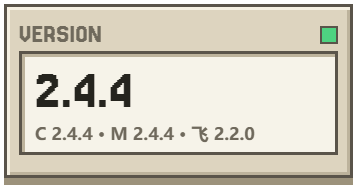
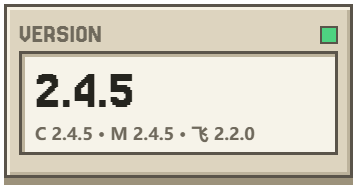
docs(readme): 头部版本卡片与最近一版说明更新到 2.4.5

Changed region(s): [[0.3081, 0.3704, 0.3697, 0.582], [0.2157, 0.6614, 0.2773, 0.7407], [0.4622, 0.6614, 0.493, 0.7407]]

diff --git a/README.md b/README.md
@@ -12,18 +12,18 @@
 </picture>
 
 <p>
-  <a href="https://github.com/Fish-under-sea/FISH-DOCK-Plugins/releases/tag/v2.4.4"><picture><source media="(prefers-color-scheme: dark)" srcset="assets/readme/config-stat-version-zh-dark.png"><img src="assets/readme/config-stat-version-zh-light.png" alt="VERSION：2.4.4（Magpie）；Clash 2.4.4" width="23%"></picture></a>
+  <a href="https://github.com/Fish-under-sea/FISH-DOCK-Plugins/releases/tag/v2.4.5"><picture><source media="(prefers-color-scheme: dark)" srcset="assets/readme/config-stat-version-zh-dark.png"><img src="assets/readme/config-stat-version-zh-light.png" alt="VERSION：2.4.5（Magpie）；Clash 2.4.5" width="23%"></picture></a>
   <a href="#plugins"><picture><source media="(prefers-color-scheme: dark)" srcset="assets/readme/config-stat-desktop-zh-dark.png"><img src="assets/readme/config-stat-desktop-zh-light.png" alt="PLUGINS：三个独立插件" width="23%"></picture></a>
   <a href="#packages"><picture><source media="(prefers-color-scheme: dark)" srcset="assets/readme/config-stat-mail-zh-dark.png"><img src="assets/readme/config-stat-mail-zh-light.png" alt="PACKAGES：三个 npm 单包" width="23%"></picture></a>
   <a href="https://github.com/Fish-under-sea/FISH-Dock"><picture><source media="(prefers-color-scheme: dark)" srcset="assets/readme/config-stat-channels-zh-dark.png"><img src="assets/readme/config-stat-channels-zh-light.png" alt="HOST API：1，兼容 FISH Dock 2.0.0+" width="23%"></picture></a>
 </p>
 
-<p><img src="https://img.shields.io/badge/Node.js-24.14%2B-8fd6a0?style=flat-square&amp;logo=nodedotjs&amp;logoColor=white&amp;labelColor=5a544a" alt="Node.js 24.14+"> <img src="https://img.shields.io/badge/Adapter%20License-MIT-8fd6a0?style=flat-square&amp;labelColor=5a544a" alt="插件适配代码许可 MIT"> <img src="https://img.shields.io/badge/mihomo-GPL--3.0-f08a5d?style=flat-square&amp;labelColor=5a544a" alt="随包 mihomo 许可 GPL-3.0"> <img src="https://img.shields.io/badge/Plugins-2.4.0-8fd6a0?style=flat-square&amp;labelColor=5a544a" alt="Clash 2.4.4 与 Magpie 2.4.4"></p>
+<p><img src="https://img.shields.io/badge/Node.js-24.14%2B-8fd6a0?style=flat-square&amp;logo=nodedotjs&amp;logoColor=white&amp;labelColor=5a544a" alt="Node.js 24.14+"> <img src="https://img.shields.io/badge/Adapter%20License-MIT-8fd6a0?style=flat-square&amp;labelColor=5a544a" alt="插件适配代码许可 MIT"> <img src="https://img.shields.io/badge/mihomo-GPL--3.0-f08a5d?style=flat-square&amp;labelColor=5a544a" alt="随包 mihomo 许可 GPL-3.0"> <img src="https://img.shields.io/badge/Plugins-2.4.5-8fd6a0?style=flat-square&amp;labelColor=5a544a" alt="Clash 2.4.5 与 Magpie 2.4.5"></p>
 <p><strong>FISH Plugins &amp; Configuration · 插件配置仓</strong><br>官方插件、配置说明与发行入口；按需安装，独立运行。</p>
 
 <p>
   <a href="#get-started"><picture><source media="(prefers-color-scheme: dark)" srcset="assets/readme/key-download-zh-dark.png"><img src="assets/readme/key-download-zh-light.png" alt="下载 / Releases" height="40"></picture></a>
-  <a href="https://github.com/Fish-under-sea/FISH-DOCK-Plugins/releases/tag/v2.4.4"><picture><source media="(prefers-color-scheme: dark)" srcset="assets/readme/key-release-zh-dark.png"><img src="assets/readme/key-release-zh-light.png" alt="更新记录" height="40"></picture></a>
+  <a href="https://github.com/Fish-under-sea/FISH-DOCK-Plugins/releases/tag/v2.4.5"><picture><source media="(prefers-color-scheme: dark)" srcset="assets/readme/key-release-zh-dark.png"><img src="assets/readme/key-release-zh-light.png" alt="更新记录" height="40"></picture></a>
   <a href="https://github.com/Fish-under-sea/FISH-DOCK-Plugins/issues"><picture><source media="(prefers-color-scheme: dark)" srcset="assets/readme/key-issues-zh-dark.png"><img src="assets/readme/key-issues-zh-light.png" alt="反馈 / Issues" height="40"></picture></a>
 </p>
 
@@ -35,10 +35,11 @@
 
 每个插件独立保存配置与凭据，按需启动，不共享业务密钥。插件仓只发布插件资源，桌面安装包请前往 [FISH-Dock](https://github.com/Fish-under-sea/FISH-Dock)。
 
-当前发行（以 `catalog/stable.json` 为唯一权威）：Magpie **2.4.4**（原生标识 `v0.1.4262+fish.41`，要求 FISH Dock ≥ 2.3.4）、Clash **2.4.4**、飞书 **2.2.0**。本版详见 [2.4.4 发行说明](docs/releases/2.4.4.md)（外观页签图标、底图遮挡真正生效、玻璃覆盖生成、宿主页桥新上限）；外观分页与记忆 Agent 见 [2.4.0 发行说明](docs/releases/2.4.0.md)。
+当前发行（以 `catalog/stable.json` 为唯一权威）：Magpie **2.4.5**（原生标识 `v0.1.4262+fish.45`，要求 FISH Dock ≥ 2.3.4）、Clash **2.4.5**、飞书 **2.2.0**。本版详见 [2.4.5 发行说明](docs/releases/2.4.5.md)（Obsidian 记忆 Agent、液态玻璃表面补全与颜色解耦、Clash TUN 服务与切换及液态玻璃修复）；外观分页与初版记忆 Agent 见 [2.4.0 发行说明](docs/releases/2.4.0.md)。
 
-**最近版本**（当前 2.4.4；每一版的完整说明见 [docs/releases](docs/releases)）
+**最近版本**（当前 2.4.5；每一版的完整说明见 [docs/releases](docs/releases)）
 
+- **2.4.5** · Magpie：Obsidian 记忆功能纳入 `.obsidian` 统一工作区正式 Agent（`fish.45`）；用量四页签等 159 条液态玻璃表面规则与独立玻璃颜色（`fishGlassColor`）解耦强调色，修复侧边栏真全透与零滤镜（`fish.44`）。Clash：TUN 服务恢复（`job.ini` 监听/BOM 剥离/`hostGone`）与切换回滚修复，对齐 360° Fresnel 液态玻璃、滚动条/过滤框与下拉交互。→ [说明](docs/releases/2.4.5.md)
 - **2.4.4** · Magpie：外观页签图标补齐；底图遮挡改为 `--wall-veil` 并在滑块松手后重画，从此真正生效；回滚改坏的侧栏内滚；玻璃覆盖改由 `tools/glass-surfaces.mjs` 从 `app.css` 生成。Clash：适配宿主页桥 2 MiB 上限，壁纸预算 1.5 MiB，超限不再假死。→ [说明](docs/releases/2.4.4.md)
 - **2.4.3** · Clash 外观页一卡一行、浮空白色滚动条、壁纸自动压缩；Magpie 侧边栏与外观页秩序。→ [说明](docs/releases/2.4.3.md)
 - **2.4.2** · 玻璃可读性：壁纸遮罩随内容区不透明度；Clash 外观页细节修正。→ [说明](docs/releases/2.4.2.md)
@@ -49,7 +50,7 @@
 
 > ⚠ **2.0.0 是 breaking 版本**：插件清单新增 `behaviors` 字段，FISH Dock 1.2.3 及更早的宿主用 `deny_unknown_fields` 解析，会以「plugin.json 格式无效或含未知字段」直接拒装。**旧宿主请先把 Dock 升到 2.0.0**，再安装这些插件。
 
-> ⚠ npm 上 `@fish-under-sea/fish-dock-plugin-clash@1.1.0` 为误发版本（基于旧基线，缺少 1.0.4 的多订阅修复），请勿使用；当前 Magpie 单包是 `2.4.4`、Clash 是 `2.4.4`、飞书是 `2.2.0`，OFM 停在 `2.0.1`（已退役）。
+> ⚠ npm 上 `@fish-under-sea/fish-dock-plugin-clash@1.1.0` 为误发版本（基于旧基线，缺少 1.0.4 的多订阅修复），请勿使用；当前 Magpie 单包是 `2.4.5`、Clash 是 `2.4.5`、飞书是 `2.2.0`，OFM 停在 `2.0.1`（已退役）。
 
 <h2 id="plugins"><picture><source media="(prefers-color-scheme: dark)" srcset="assets/readme/section-features-dark.png"><img src="assets/readme/section-features-light.png" alt="PLUGINS · 三个插件" width="100%"></picture></h2>
 
@@ -77,7 +78,7 @@
 
 <h2 id="get-started"><picture><source media="(prefers-color-scheme: dark)" srcset="assets/readme/section-install-dark.png"><img src="assets/readme/section-install-light.png" alt="INSTALL · 安装使用" width="100%"></picture></h2>
 
-安装前先核对宿主版本：Magpie 是 2.4.4（要求 FISH Dock ≥ 2.3.4）、Clash 是 2.4.4、飞书是 2.2.0，**FISH Dock 需要 2.0.0 及以上**；1.2.3 及更早的宿主会因清单里的 `behaviors` 字段拒装。
+安装前先核对宿主版本：Magpie 是 2.4.5（要求 FISH Dock ≥ 2.3.4）、Clash 是 2.4.5、飞书是 2.2.0，**FISH Dock 需要 2.0.0 及以上**；1.2.3 及更早的宿主会因清单里的 `behaviors` 字段拒装。
 
 **方式一：Dock 内插件市场（推荐）**
 
@@ -96,22 +97,22 @@
 | 插件 | GitHub 包 | npm 单包 |
 | --- | --- | --- |
 | 飞书 2.2.0 | [`feishu.fish-plugin`](https://github.com/Fish-under-sea/FISH-DOCK-Plugins/releases/download/v2.2.0/feishu.fish-plugin) | [`@fish-under-sea/fish-dock-plugin-feishu`](https://www.npmjs.com/package/@fish-under-sea/fish-dock-plugin-feishu/v/2.2.0) |
-| Clash 2.4.4 | [`clash.fish-plugin`](https://github.com/Fish-under-sea/FISH-DOCK-Plugins/releases/download/v2.4.4/clash.fish-plugin) | [`@fish-under-sea/fish-dock-plugin-clash`](https://www.npmjs.com/package/@fish-under-sea/fish-dock-plugin-clash/v/2.4.4) |
-| Magpie 2.4.4 | [`magpie.fish-plugin`](https://github.com/Fish-under-sea/FISH-DOCK-Plugins/releases/download/v2.4.4/magpie.fish-plugin) | [`@fish-under-sea/fish-dock-plugin-magpie`](https://www.npmjs.com/package/@fish-under-sea/fish-dock-plugin-magpie/v/2.4.4) |
+| Clash 2.4.5 | [`clash.fish-plugin`](https://github.com/Fish-under-sea/FISH-DOCK-Plugins/releases/download/v2.4.5/clash.fish-plugin) | [`@fish-under-sea/fish-dock-plugin-clash`](https://www.npmjs.com/package/@fish-under-sea/fish-dock-plugin-clash/v/2.4.5) |
+| Magpie 2.4.5 | [`magpie.fish-plugin`](https://github.com/Fish-under-sea/FISH-DOCK-Plugins/releases/download/v2.4.5/magpie.fish-plugin) | [`@fish-under-sea/fish-dock-plugin-magpie`](https://www.npmjs.com/package/@fish-under-sea/fish-dock-plugin-magpie/v/2.4.5) |
 
 <h2 id="packages"><picture><source media="(prefers-color-scheme: dark)" srcset="assets/readme/section-packages-dark.png"><img src="assets/readme/section-packages-light.png" alt="PACKAGES · npm 单包" width="100%"></picture></h2>
 
-每个 npm 包只包含一个对应的插件归档和下载 CLI（bin 名 `fish-dock-plugin-<插件>`），不运行安装后脚本，不修改 Dock 或系统设置。当前 npm 上 **Magpie 是 2.4.4、Clash 是 2.4.4、飞书是 2.2.0**（OFM 单包停在 2.0.1，已退役只供手动下载），要求 **Node.js ≥ 24** 与 **FISH Dock ≥ 2.0.0**。
+每个 npm 包只包含一个对应的插件归档和下载 CLI（bin 名 `fish-dock-plugin-<插件>`），不运行安装后脚本，不修改 Dock 或系统设置。当前 npm 上 **Magpie 是 2.4.5、Clash 是 2.4.5、飞书是 2.2.0**（OFM 单包停在 2.0.1，已退役只供手动下载），要求 **Node.js ≥ 24** 与 **FISH Dock ≥ 2.0.0**。
 
 | npm 单包（完整包名） | 版本 | bin | `npm pack` 体积 |
 | --- | --- | --- | --- |
 | `@fish-under-sea/fish-dock-plugin-feishu` | 2.2.0 | `fish-dock-plugin-feishu` | 38.6 kB（6 个文件） |
-| `@fish-under-sea/fish-dock-plugin-clash` | 2.4.4 | `fish-dock-plugin-clash` | 16.1 MB（7 个文件，含 mihomo 许可） |
-| `@fish-under-sea/fish-dock-plugin-magpie` | 2.4.4 | `fish-dock-plugin-magpie` | 46.6 MB（7 个文件，含 Magpie 许可） |
+| `@fish-under-sea/fish-dock-plugin-clash` | 2.4.5 | `fish-dock-plugin-clash` | 16.9 MB（7 个文件，含 mihomo 许可） |
+| `@fish-under-sea/fish-dock-plugin-magpie` | 2.4.5 | `fish-dock-plugin-magpie` | 49.0 MB（7 个文件，含 Magpie 许可） |
 | `@fish-under-sea/fish-dock-plugin-ofm` | 2.0.1（暂停维护，仅手动） | `fish-dock-plugin-ofm` | 1.9 MB（6 个文件） |
 
 ```powershell
-npm install @fish-under-sea/fish-dock-plugin-clash@2.4.4
+npm install @fish-under-sea/fish-dock-plugin-clash@2.4.5
 npx @fish-under-sea/fish-dock-plugin-clash --out C:/work/plugins
 ```
 
@@ -139,7 +140,7 @@ node --test --test-isolation=none 'plugins/feishu/*.test.mjs' 'plugins/clash/*.t
 | [自编译 Magpie](plugins/magpie/tools/README.md) | 补丁清单与每一处为什么补、构建命令、版本标识、跟着上游升级时会踩的坑 |
 | [签到&探针说明](https://github.com/Fish-under-sea/magpie-checkin-relay-probe) | 宿主提供哪些读与调用、「预装插件美化」开关怎么工作、素材为什么编进 exe |
 | [厂商素材来源](https://github.com/Fish-under-sea/magpie-checkin-relay-probe/tree/main/page/checkin/logos) | 每张厂商图的来源、裁切范围与授权状况 |
-| [发行说明](docs/releases/) | 逐版本的改动与验证；最新是 [2.4.4](docs/releases/2.4.4.md) |
+| [发行说明](docs/releases/) | 逐版本的改动与验证；最新是 [2.4.5](docs/releases/2.4.5.md) |
 | [第三方许可](THIRD_PARTY_NOTICES.md) | 随包运行时的许可与来源（mihomo 的 GPL-3.0、Magpie 的随包许可等） |
 | [README 头图维护](assets/readme/MAINTAINING.md) | 头图怎么渲染、字号与卡片尺寸的约束、哪些东西不能换 |
 
@@ -153,7 +154,7 @@ node --test --test-isolation=none 'plugins/feishu/*.test.mjs' 'plugins/clash/*.t
 
 整个 Magpie 插件的地基。供应商注册、页面与面板桥、签到与额度读取、网关路由，全部是上游的代码；本仓写着「Magpie 插件」的那层，实际上只是它的适配层、页面与发布工具。
 
-本仓发布的 `magpie.fish-plugin` 走的是**其源码自编译**：基线上游 tag（当前 `v0.1.3596`），加上 `patches/` 里我们自己的累计补丁（当前 `fish.33`：页面在 CSP 沙箱里发不出任何请求，所以补一条 `magpie.call` 通道；以及预装插件的图标由本地一套素材接管）。补丁的每一处、为什么补、怎么复现，都写在 [plugins/magpie/tools/README.md](plugins/magpie/tools/README.md) 里。上游的版本标识与第三方声明随包保留（`licenses/Magpie.txt`）。
+本仓发布的 `magpie.fish-plugin` 走的是**其源码自编译**：基线上游 tag（当前 `v0.1.4262`），加上 `patches/` 里我们自己的累计补丁（当前累计至 `fish.45`：页面在 CSP 沙箱里发不出任何请求，所以补一条 `magpie.call` 通道，并陆续补入本地素材接管、液态玻璃适配与 Obsidian 记忆 Agent 等增强）。补丁的每一处、为什么补、怎么复现，都写在 [plugins/magpie/tools/README.md](plugins/magpie/tools/README.md) 里。上游的版本标识与第三方声明随包保留（`licenses/Magpie.txt`）。
 
 ### [mihomo](https://github.com/MetaCubeX/mihomo) · Clash 内核
 
